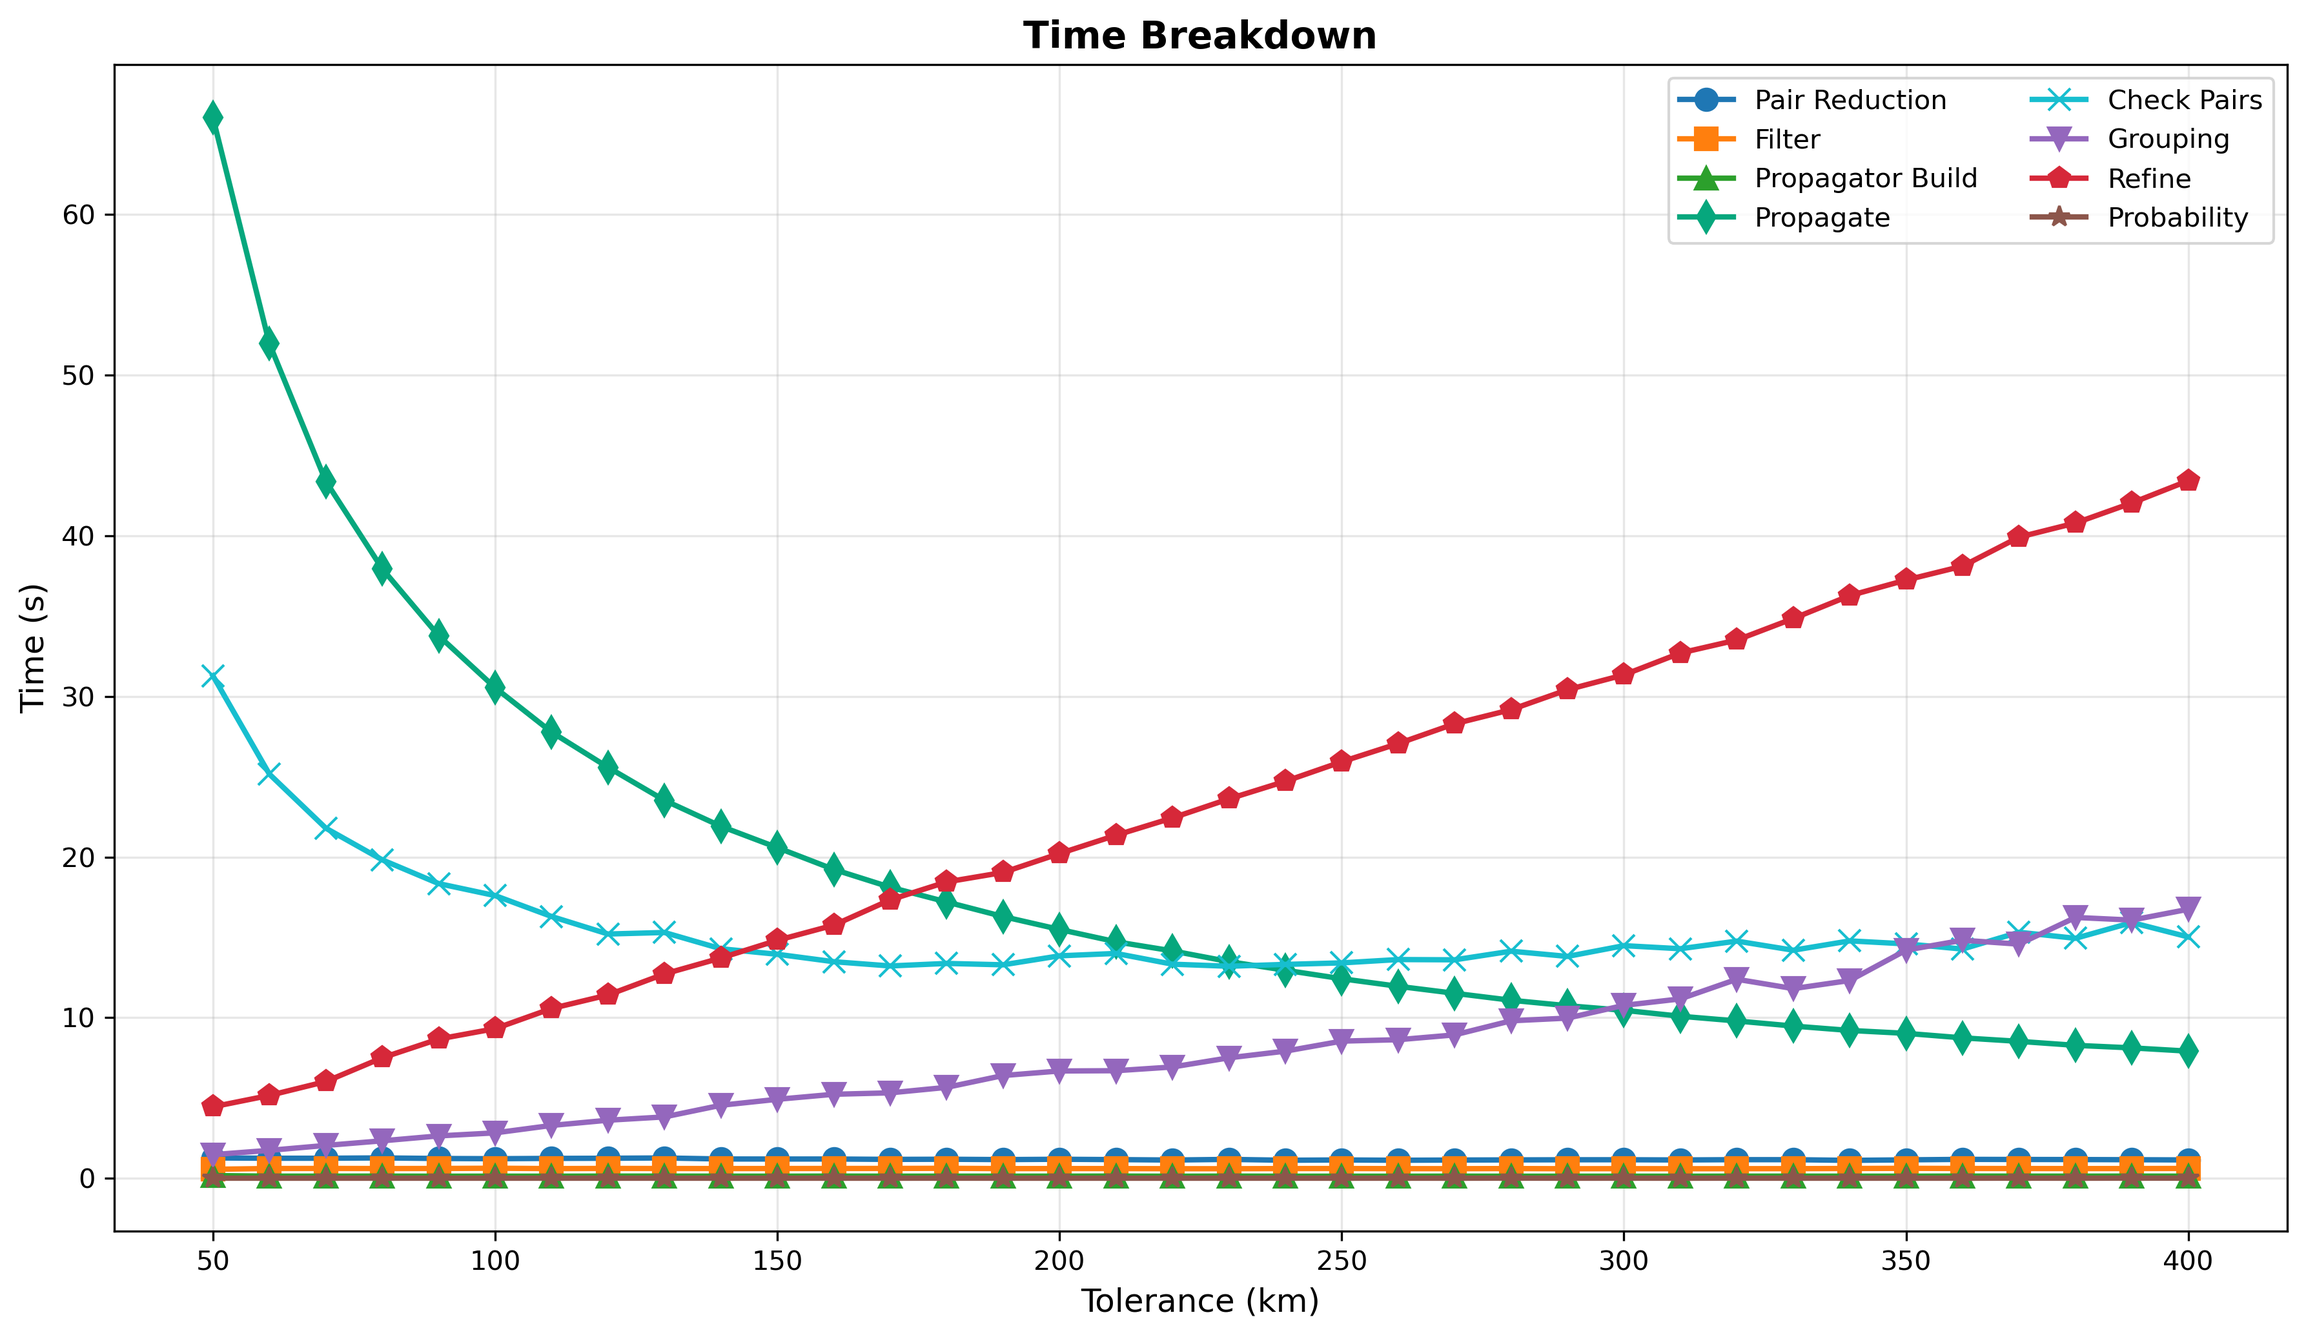
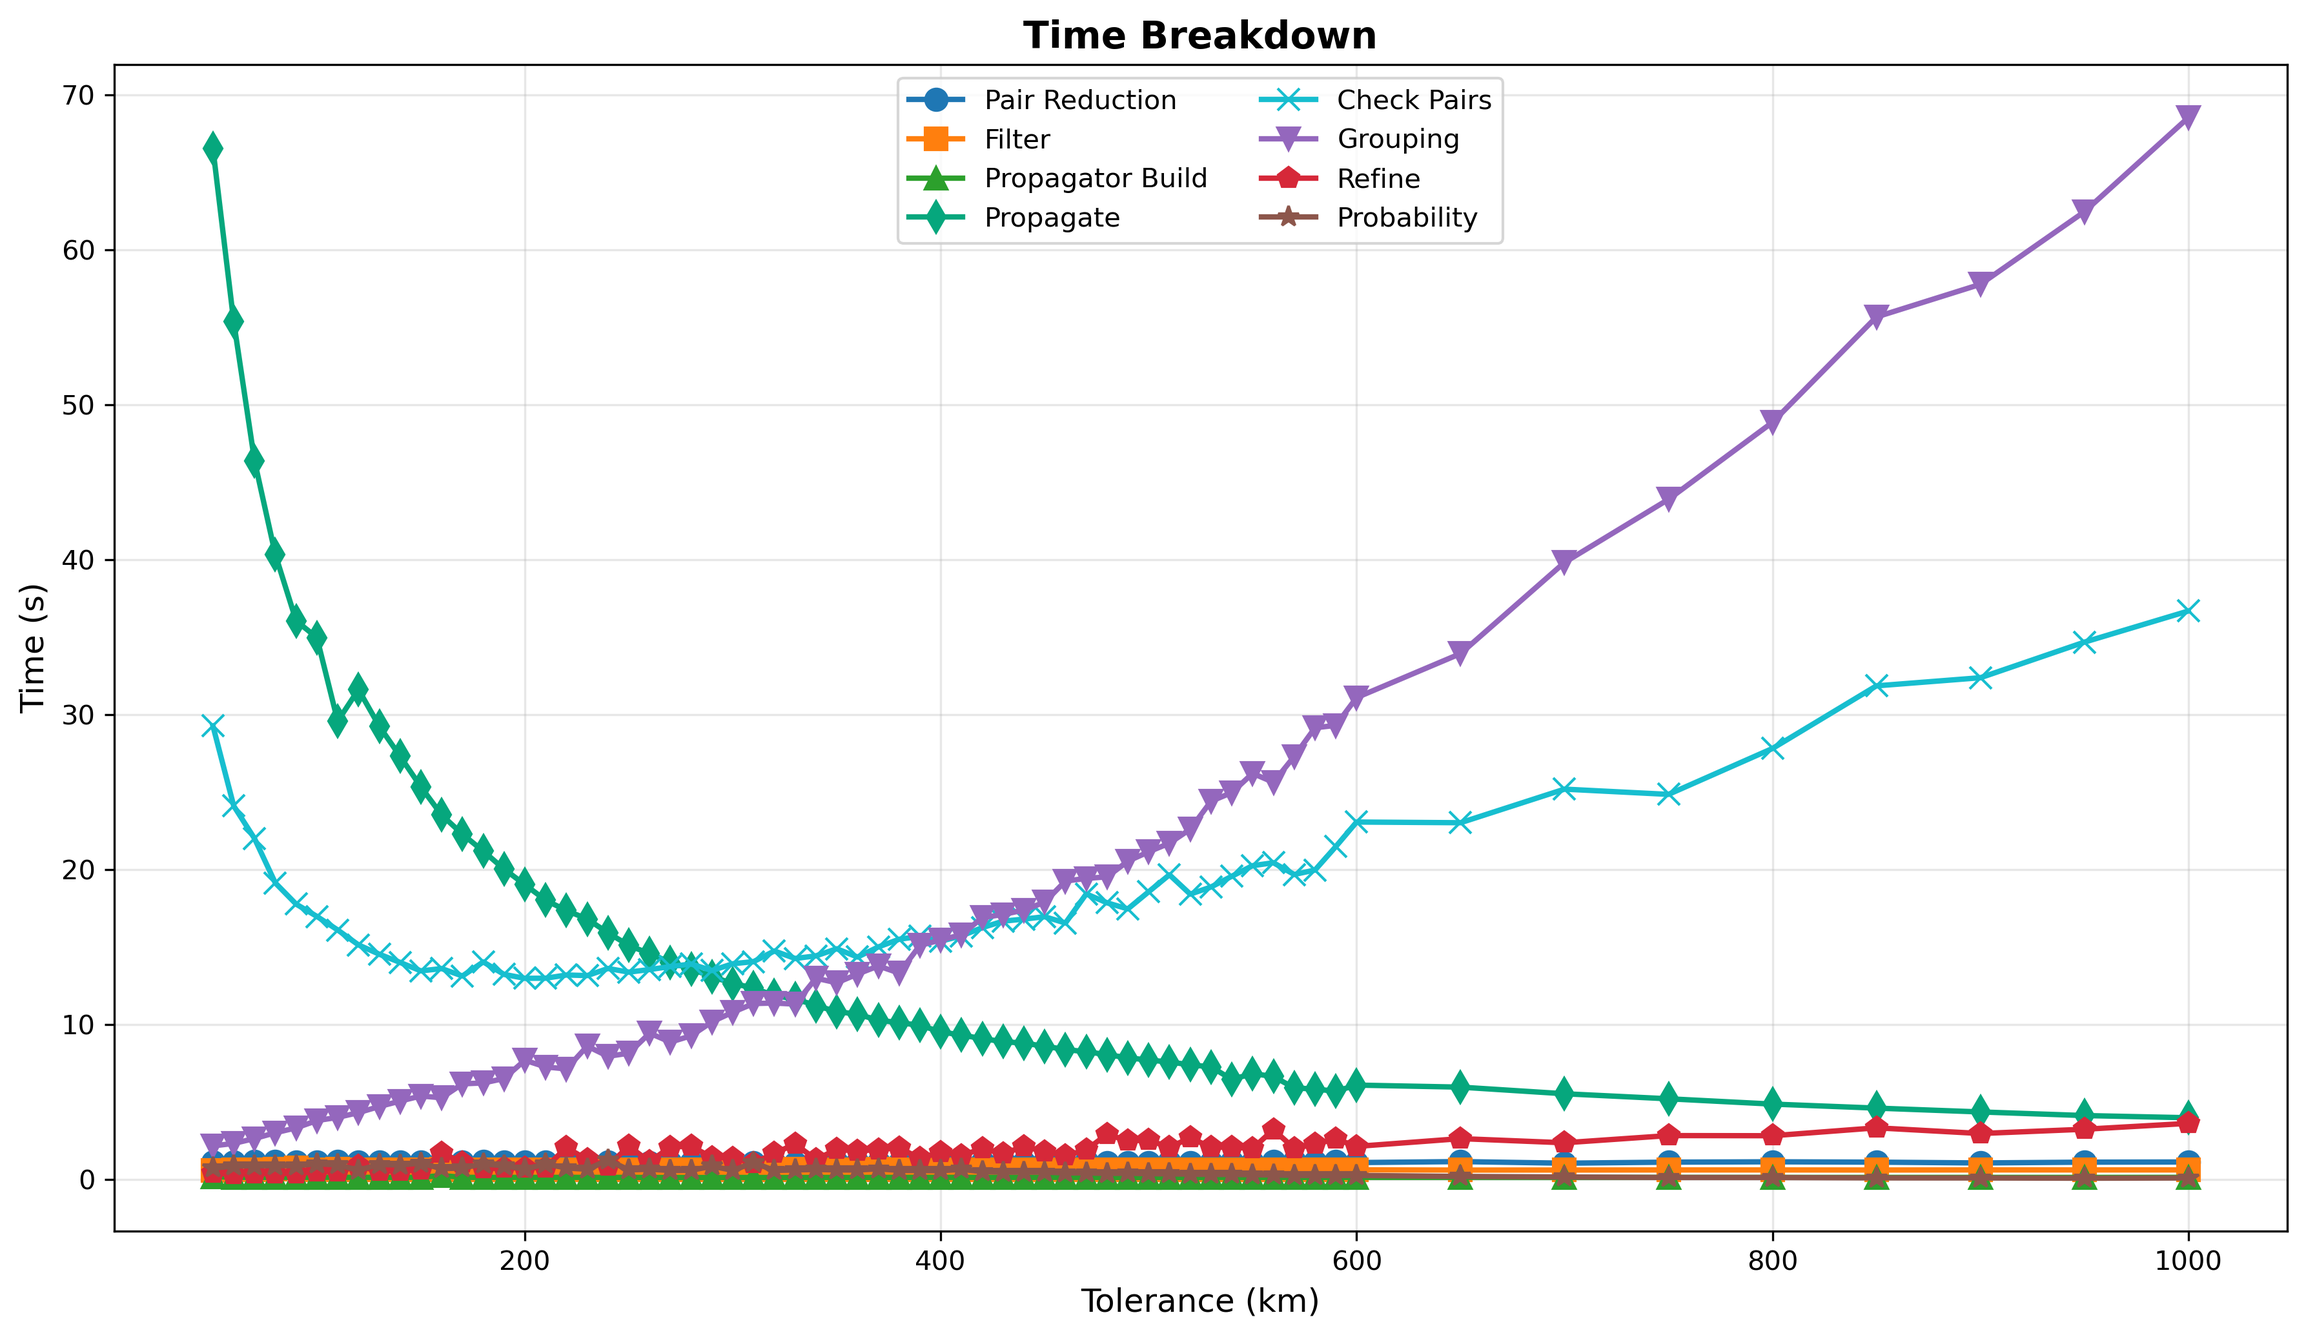
Replace Brent's TCA minimizer with analytical method

diff --git a/src/main/java/io/salad109/conjunctiondetector/conjunction/internal/ScanService.java b/src/main/java/io/salad109/conjunctiondetector/conjunction/internal/ScanService.java
@@ -2,12 +2,6 @@ package io.salad109.conjunctiondetector.conjunction.internal;
 
 import io.salad109.conjunctiondetector.satellite.SatellitePair;
 import org.eclipse.collections.impl.map.mutable.primitive.LongObjectHashMap;
-import org.apache.commons.math3.optim.MaxEval;
-import org.apache.commons.math3.optim.nonlinear.scalar.GoalType;
-import org.apache.commons.math3.optim.univariate.BrentOptimizer;
-import org.apache.commons.math3.optim.univariate.SearchInterval;
-import org.apache.commons.math3.optim.univariate.UnivariateObjectiveFunction;
-import org.apache.commons.math3.optim.univariate.UnivariatePointValuePair;
 import org.orekit.frames.Frame;
 import org.orekit.propagation.analytical.tle.TLEPropagator;
 import org.orekit.time.AbsoluteDate;
@@ -64,7 +58,7 @@ public class ScanService {
 
                         double distSq = precomputedPositions.distanceSquaredAt(idxA, idxB, step);
                         if (distSq < tolSq) {
-                            consumer.accept(new CoarseDetection(pair, precomputedPositions.times()[step], distSq));
+                            consumer.accept(new CoarseDetection(pair, precomputedPositions.times()[step], distSq, step));
                         }
                     });
                 })
@@ -125,73 +119,86 @@ public class ScanService {
     }
 
     /**
-     * Refine an event (cluster of coarse detections) using Brent's method to find more accurate TCA and minimum distance.
-     * Uses linear interpolation during optimization to avoid expensive SGP4 calls, then does one final propagation
-     * at the found TCA for accurate distance measurement.
+     * Refine an event to find more accurate TCA and minimum distance.
+     * Call SGP4 only for events that survive the threshold check.
      */
-    public RefinedEvent refineEvent(List<CoarseDetection> event, Map<Integer, TLEPropagator> propagators, int stepSeconds, double thresholdKm) {
+    public RefinedEvent refineEvent(List<CoarseDetection> event, PropagationService.PositionCache cache,
+                                    Map<Integer, TLEPropagator> propagators, int stepSeconds, double thresholdKm) {
         CoarseDetection best = event.stream()
                 .min(Comparator.comparing(CoarseDetection::distanceSq))
                 .orElseThrow();
         SatellitePair pair = best.pair();
+        int step = best.stepIndex();
+        int totalSteps = cache.times().length;
 
-        // Search interval is stepSeconds/2 on each side of best detection
-        long halfWindowNanos = (stepSeconds * 1_000_000_000L) / 2;
-        long windowNanos = 2 * halfWindowNanos;
-        OffsetDateTime startTime = best.time().minusNanos(halfWindowNanos);
-        OffsetDateTime endTime = best.time().plusNanos(halfWindowNanos);
+        int idxA = cache.noradIdToArrayId().get(pair.a().getNoradCatId());
+        int idxB = cache.noradIdToArrayId().get(pair.b().getNoradCatId());
 
-        // Pre-compute positions at window endpoints (4 SGP4 calls total)
-        double[] startA = propagationService.propagateToPositionKm(pair.a(), propagators, startTime);
-        double[] endA = propagationService.propagateToPositionKm(pair.a(), propagators, endTime);
-        double[] startB = propagationService.propagateToPositionKm(pair.b(), propagators, startTime);
-        double[] endB = propagationService.propagateToPositionKm(pair.b(), propagators, endTime);
-
-        // Use Brent's method from Apache Commons Math
-        // Only absolute tolerance matters. 0.017s = 0.25km@15km/s worst-case scenario is sufficient precision
-        BrentOptimizer optimizer = new BrentOptimizer(1e-8, 16_666_667);
-
-        // Minimize distance squared - same minimum location as with sqrt
-        UnivariateObjectiveFunction objectiveFunction = new UnivariateObjectiveFunction(offsetNanos -> {
-            double t = offsetNanos / windowNanos; // 0 to 1
-            // Linear interpolation for both satellites
-            double ax = startA[0] + t * (endA[0] - startA[0]);
-            double ay = startA[1] + t * (endA[1] - startA[1]);
-            double az = startA[2] + t * (endA[2] - startA[2]);
-            double bx = startB[0] + t * (endB[0] - startB[0]);
-            double by = startB[1] + t * (endB[1] - startB[1]);
-            double bz = startB[2] + t * (endB[2] - startB[2]);
-
-            double dx = ax - bx;
-            double dy = ay - by;
-            double dz = az - bz;
-
-            return dx * dx + dy * dy + dz * dz;
-        });
-
-        UnivariatePointValuePair result = optimizer.optimize(
-                objectiveFunction,
-                GoalType.MINIMIZE,
-                new SearchInterval(0, windowNanos),
-                MaxEval.unlimited()
-        );
-
-        // Check if interpolated minimum distance is under threshold (compare squared to avoid sqrt)
         double thresholdSq = thresholdKm * thresholdKm;
-        if (result.getValue() > thresholdSq) {
-            return null; // Skip expensive propagation for events that won't meet threshold
+        double bestDistSq = Double.MAX_VALUE;
+        double bestT = 0;
+        int bestIntervalStart = step;
+
+        // Check interval (step-1, step)
+        if (step > 0 && cache.valid()[idxA][step - 1] && cache.valid()[idxB][step - 1]
+                && cache.valid()[idxA][step] && cache.valid()[idxB][step]) {
+            double[] result = analyticalMin(cache, idxA, idxB, step - 1, step);
+            if (result[0] < bestDistSq) {
+                bestDistSq = result[0];
+                bestT = result[1];
+                bestIntervalStart = step - 1;
+            }
         }
 
-        OffsetDateTime tca = startTime.plusNanos((long) result.getPoint());
+        // Check interval (step, step+1)
+        if (step < totalSteps - 1 && cache.valid()[idxA][step] && cache.valid()[idxB][step]
+                && cache.valid()[idxA][step + 1] && cache.valid()[idxB][step + 1]) {
+            double[] result = analyticalMin(cache, idxA, idxB, step, step + 1);
+            if (result[0] < bestDistSq) {
+                bestDistSq = result[0];
+                bestT = result[1];
+                bestIntervalStart = step;
+            }
+        }
 
-        // Final accurate propagation at TCA (only for events likely under threshold)
+        // Early exit for events obviously above threshold
+        if (bestDistSq > thresholdSq) {
+            return null;
+        }
+
+        // Convert fractional t to absolute timestamp
+        long intervalNanos = stepSeconds * 1_000_000_000L;
+        OffsetDateTime tca = cache.times()[bestIntervalStart].plusNanos((long) (bestT * intervalNanos));
+
         PropagationService.MeasurementResult measurement = propagationService.propagateAndMeasure(pair, propagators, tca, thresholdKm);
 
         return new RefinedEvent(pair, measurement.distanceKm(), tca, measurement.velocityKmS(),
                 measurement.pvA(), measurement.pvB(), measurement.frame(), measurement.absoluteDate());
     }
 
-    public record CoarseDetection(SatellitePair pair, OffsetDateTime time, double distanceSq) {
+    /**
+     * With linear interpolation between two positions, squared distance is a quadratic in t.
+     * Solve for the minimum analytically. Returns {minDistSq, t} where t in [0,1].
+     */
+    private double[] analyticalMin(PropagationService.PositionCache cache, int idxA, int idxB,
+                                   int s0, int s1) {
+        double sepX = cache.x()[idxA][s0] - cache.x()[idxB][s0];
+        double sepY = cache.y()[idxA][s0] - cache.y()[idxB][s0];
+        double sepZ = cache.z()[idxA][s0] - cache.z()[idxB][s0];
+        double deltaSepX = (cache.x()[idxA][s1] - cache.x()[idxA][s0]) - (cache.x()[idxB][s1] - cache.x()[idxB][s0]);
+        double deltaSepY = (cache.y()[idxA][s1] - cache.y()[idxA][s0]) - (cache.y()[idxB][s1] - cache.y()[idxB][s0]);
+        double deltaSepZ = (cache.z()[idxA][s1] - cache.z()[idxA][s0]) - (cache.z()[idxB][s1] - cache.z()[idxB][s0]);
+
+        double distSq0 = sepX * sepX + sepY * sepY + sepZ * sepZ;
+        double sepDotDelta = sepX * deltaSepX + sepY * deltaSepY + sepZ * deltaSepZ;
+        double deltaSepSq = deltaSepX * deltaSepX + deltaSepY * deltaSepY + deltaSepZ * deltaSepZ;
+
+        double t = deltaSepSq == 0 ? 0.5 : Math.clamp(-sepDotDelta / deltaSepSq, 0, 1);
+        return new double[]{distSq0 + (2 * sepDotDelta + deltaSepSq * t) * t, t};
+    }
+
+
+    public record CoarseDetection(SatellitePair pair, OffsetDateTime time, double distanceSq, int stepIndex) {
     }
 
     public record RefinedEvent(SatellitePair pair, double distanceKm, OffsetDateTime tca, double relativeVelocityKmS,

diff --git a/docs/6-conjunction-tolerance/plot.py b/docs/6-conjunction-tolerance/plot.py
@@ -19,13 +19,13 @@ all_data = pd.concat(dfs, ignore_index=True)
 # Group by tolerance_km and average all other numeric columns
 df = all_data.groupby('tolerance_km', as_index=False).mean(numeric_only=True)
 
-def model(x, a, b, c):
-    return a / x + b * x + c
+def model(x, a, b, c, d):
+    return a / x + b * x + c * x**2 + d
 
 x = df['tolerance_km'].values
 y = df['total_s'].values
 params, _ = curve_fit(model, x, y)
-a, b, c = params
+a, b, c, d = params
 
 y_pred = model(x, *params)
 r2 = 1 - np.sum((y - y_pred)**2) / np.sum((y - np.mean(y))**2)
@@ -37,7 +37,7 @@ x_min, y_min = result.x, result.fun
 fig, ax = plt.subplots(figsize=(10, 6))
 x_smooth = np.linspace(x.min(), x.max(), 500)
 ax.plot(x, y, 'o', color='#2E86AB', markersize=8, label='Data')
-ax.plot(x_smooth, model(x_smooth, *params), '-', color='red', linewidth=2, label=f'${a:.0f}/x + {b:.3f}x + {c:.1f}$')
+ax.plot(x_smooth, model(x_smooth, *params), '-', color='red', linewidth=2, label=f'${a:.0f}/x + {b:.3f}x + {c:.2e}x^2 + {d:.1f}$')
 ax.axvline(x=x_min, color='red', linestyle='--', linewidth=2, alpha=0.5, label=f'Optimal: {x_min:.1f} km')
 ax.text(0.02, 0.98, f'$R^2 = {r2:.4f}$', transform=ax.transAxes, fontsize=11, verticalalignment='top', bbox=dict(boxstyle='round', facecolor='white', alpha=0.8))
 ax.set_xlabel('Tolerance (km)', fontsize=12)

diff --git a/src/main/java/io/salad109/conjunctiondetector/conjunction/internal/ConjunctionBenchmark.java b/src/main/java/io/salad109/conjunctiondetector/conjunction/internal/ConjunctionBenchmark.java
@@ -79,7 +79,7 @@ public class ConjunctionBenchmark implements CommandLineRunner {
 
         //noinspection InfiniteLoopStatement
         while (true) {
-            for (double toleranceKm = 50; toleranceKm <= 400; toleranceKm += stepSecondRatio) {
+            for (double toleranceKm = 50; toleranceKm <= 800; toleranceKm += 10) {
                 int stepSeconds = (int) (toleranceKm / stepSecondRatio);
 
                 System.gc();
@@ -145,7 +145,7 @@ public class ConjunctionBenchmark implements CommandLineRunner {
 
         // Refinement
         StopWatch refine = StopWatch.createStarted();
-        List<ScanService.RefinedEvent> refined = allEvents.parallelStream().map(event -> scanService.refineEvent(event, propagators, stepSeconds, thresholdKm))
+        List<ScanService.RefinedEvent> refined = allEvents.parallelStream().map(event -> scanService.refineEvent(event, positionCache, propagators, stepSeconds, thresholdKm))
                 .filter(Objects::nonNull)
                 .toList();
         refine.stop();

diff --git a/src/main/java/io/salad109/conjunctiondetector/conjunction/ConjunctionService.java b/src/main/java/io/salad109/conjunctiondetector/conjunction/ConjunctionService.java
@@ -126,7 +126,7 @@ public class ConjunctionService {
 
         // Refine
         List<ScanService.RefinedEvent> refined = allEvents.parallelStream()
-                .map(event -> scanService.refineEvent(event, propagators, stepSeconds, thresholdKm))
+                .map(event -> scanService.refineEvent(event, positionCache, propagators, stepSeconds, thresholdKm))
                 .filter(Objects::nonNull)
                 .toList();
 

diff --git a/docs/6-conjunction-tolerance-tuning.md b/docs/6-conjunction-tolerance-tuning.md
@@ -7,47 +7,29 @@ Final tuning of the coarse sweep tolerance parameter, with prepass, step ratio, 
 - **prepass-tolerance-km**: Fixed at 10.0 km (from prepass tuning)
 - **step-second-ratio**: Fixed at 10 (from step ratio tuning)
 - **interpolation-stride**: Fixed at 6 (from interpolation tuning)
-- **tolerance-km**: Coarse detection threshold (swept from 50 to 400 km, incremented by 10)
+- **tolerance-km**: Coarse detection threshold (swept 50-1000 km)
 - **lookahead-hours**: Fixed at 24 hours
 - **threshold-km**: Final conjunction threshold (fixed at 5.0 km)
 
-## Pipeline Stages
-
-The conjunction detection pipeline consists of 7 stages:
-
-1. **Pair Reduction**: Geometric filtering to reduce candidate pairs (~1.2s, constant)
-2. **Filter**: Rebuilding catalog from reduced pairs (~0.6s, constant)
-3. **Propagator Build**: Constructing TLE propagators (~0.13s, constant)
-4. **Propagate**: Pre-computing positions for coarse sweep (decreases with tolerance)
-5. **Check Pairs**: Distance checking during coarse sweep (decreases with tolerance)
-6. **Grouping**: Clustering detections into events (increases with tolerance)
-7. **Refine**: Brent's method optimization for precise TCA (increases with tolerance)
-
 ## Analysis
 
-### Time Complexity Trade-off
+Tolerance controls the coarse sweep step size (step = tolerance / 10). Three stages dominate:
 
-The pipeline stages have opposing time complexities with respect to tolerance:
+- **Propagate** scales as 1/x - fewer steps at larger tolerance
+- **Check Pairs** scales as a/x + bx - fewer steps but more spatial grid cells per step
+- **Grouping** scales as x^2 - quadratically more detections to cluster
 
-- **Propagate + Check Pairs - O(1/tolerance)**: Larger tolerance means larger step size, so fewer propagation calls and
-  distance checks. Doubling tolerance roughly halves this time.
-- **Grouping + Refine - O(tolerance)**: Larger tolerance catches more events that need grouping and refinement.
-- **Pair Reduction, Filter, Propagator Build**: Essentially constant regardless of tolerance.
+The rest (pair reduction, filter, propagator build, refine) are roughly constant.
 
-The optimal tolerance minimizes total time. As tolerance increases, propagate/check time decreases but grouping/refine
-time increases. The U-shaped total time curve has its minimum where these opposing effects balance.
-
-### Performance Curve
-
-| Tolerance | Coarse (Prop+Check) | Refine (Group+Refine) | Total  |
-|-----------|---------------------|-----------------------|--------|
-| 100 km    | 48.14s              | 12.14s                | 62.25s |
-| 160 km    | 32.71s              | 20.98s                | 55.63s |
-| 300 km    | 24.94s              | 42.11s                | 68.92s |
+| Tolerance | Prop+Check | Grouping | Total  |
+|-----------|------------|----------|--------|
+| 100 km    | 51.93s     | 3.79s    | 59.10s |
+| 260 km    | 28.10s     | 9.43s    | 41.14s |
+| 500 km    | 26.25s     | 21.14s   | 52.10s |
 
 ## Conclusion
 
-**Optimal tolerance is 160 km (step size 16s).** Fitted minimum at 157.9 km (R² = 0.9942), measured minimum at 160 km.
+**Optimal tolerance is 260 km (step size 26s).**
 
 ![Total Processing Time](6-conjunction-tolerance/1_total_time.png)
 

diff --git a/README.md b/README.md
@@ -36,7 +36,7 @@ The detection algorithm uses a two-step approach:
 
 1. **Coarse sweep**: Pre-computes satellite positions using SGP4 with linear interpolation, then uses spatial grid
    indexing to efficiently find nearby satellites within tolerance
-2. **Refinement**: Brent's method optimization to find precise TCA and miss distance, filtering by 5 km collision
+2. **Refinement**: Solves quadratic equation to find precise TCA and miss distance, filtering by 5 km collision
    threshold
 
 See docs for tuning experiments and optimal parameters.
